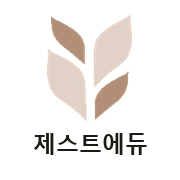
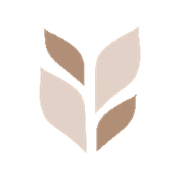
바로가기·탭 아이콘에서 '제스트에듀' 글자를 빼고 갈색 로고만 남긴다.

Changed region(s): [[0.1944, 0.0833, 0.8333, 0.8611]]

diff --git a/index.html b/index.html
@@ -5,12 +5,12 @@
 <meta name="viewport" content="width=device-width, initial-scale=1.0" />
 <meta name="naver-site-verification" content="dc796cab01d5b0e023966ceb303d0ae54eae21ac" />
 <title>제스트에듀 ZESTEDU — 중·고등 영어 전문학원</title>
-<link rel="icon" href="/favicon.ico?v=2" sizes="any" />
-<link rel="shortcut icon" href="/favicon.ico?v=2" />
-<link rel="icon" type="image/png" sizes="32x32" href="/images/favicon-32.png?v=2" />
-<link rel="apple-touch-icon" href="/apple-touch-icon.png?v=2" />
+<link rel="icon" href="/favicon.ico?v=3" sizes="any" />
+<link rel="shortcut icon" href="/favicon.ico?v=3" />
+<link rel="icon" type="image/png" sizes="32x32" href="/images/favicon-32.png?v=3" />
+<link rel="apple-touch-icon" href="/apple-touch-icon.png?v=3" />
 <link rel="manifest" href="/site.webmanifest" />
-<meta name="msapplication-TileImage" content="/images/icon-192.png?v=2" />
+<meta name="msapplication-TileImage" content="/images/icon-192.png?v=3" />
 <meta name="msapplication-TileColor" content="#ffffff" />
 <meta name="description" content="최상위권의 클래스, 제스트에듀. 중·고등 영어 전문학원. 학년별 반편성 · 수준별 지도 · 철저한 학습관리 · 맞춤형 커리큘럼. 부천 상동역 7번출구." />
 <link rel="preconnect" href="https://cdn.jsdelivr.net" crossorigin />

diff --git a/post.html b/post.html
@@ -4,12 +4,12 @@
 <meta charset="UTF-8" />
 <meta name="viewport" content="width=device-width, initial-scale=1.0" />
 <title>제스트에듀 ZESTEDU — 공지 · 블로그</title>
-<link rel="icon" href="/favicon.ico?v=2" sizes="any" />
-<link rel="shortcut icon" href="/favicon.ico?v=2" />
-<link rel="icon" type="image/png" sizes="32x32" href="/images/favicon-32.png?v=2" />
-<link rel="apple-touch-icon" href="/apple-touch-icon.png?v=2" />
+<link rel="icon" href="/favicon.ico?v=3" sizes="any" />
+<link rel="shortcut icon" href="/favicon.ico?v=3" />
+<link rel="icon" type="image/png" sizes="32x32" href="/images/favicon-32.png?v=3" />
+<link rel="apple-touch-icon" href="/apple-touch-icon.png?v=3" />
 <link rel="manifest" href="/site.webmanifest" />
-<meta name="msapplication-TileImage" content="/images/icon-192.png?v=2" />
+<meta name="msapplication-TileImage" content="/images/icon-192.png?v=3" />
 <meta name="msapplication-TileColor" content="#ffffff" />
 <meta name="description" content="제스트에듀 공지 · 블로그" />
 <link rel="preconnect" href="https://cdn.jsdelivr.net" crossorigin />

diff --git a/admin/certificates.html b/admin/certificates.html
@@ -5,7 +5,7 @@
 <meta name="viewport" content="width=device-width, initial-scale=1" />
 <meta name="robots" content="noindex, nofollow" />
 <title>상장 만들기 — 제스트에듀</title>
-<link rel="icon" href="/favicon.ico?v=2" sizes="any" />
+<link rel="icon" href="/favicon.ico?v=3" sizes="any" />
 <link rel="stylesheet" href="https://cdn.jsdelivr.net/gh/orioncactus/pretendard@v1.3.9/dist/web/static/pretendard.min.css" />
 <link rel="stylesheet" href="https://fonts.googleapis.com/css2?family=Nanum+Myeongjo:wght@400;700;800&display=swap" />
 <script src="https://cdnjs.cloudflare.com/ajax/libs/jszip/3.10.1/jszip.min.js"></script>

diff --git a/admin/index.html b/admin/index.html
@@ -5,7 +5,7 @@
 <meta name="viewport" content="width=device-width, initial-scale=1" />
 <meta name="robots" content="noindex, nofollow" />
 <title>제스트에듀 홈페이지 편집</title>
-<link rel="icon" href="/favicon.ico?v=2" sizes="any" />
+<link rel="icon" href="/favicon.ico?v=3" sizes="any" />
 <link rel="stylesheet" href="https://cdn.jsdelivr.net/gh/orioncactus/pretendard@v1.3.9/dist/web/static/pretendard.min.css" />
 <style>
   :root{--ink:#1c1a15;--muted:#6b6558;--line:#e3ddcf;--bg:#f6f3ec;--paper:#fff;--gold:#b99a57;--blue:#2f6fed;--red:#d9480f;--green:#2b8a3e}
